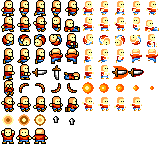
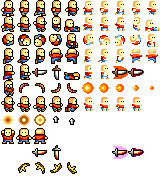
Obtaining life potion multiple times

diff --git a/src/player.js b/src/player.js
@@ -392,7 +392,8 @@ export class Player extends CollisionObject {
             this.boomerang.spawn(
                 this.pos.x+4*this.dir, this.pos.y+2,
                 THROW_SPEED*this.dir, 0, RETURN_TIME,
-                this, this.progress.hasItem(ItemType.FireBall));
+                this, this.progress.hasItem(ItemType.FireBall),
+                this.progress.hasItem(ItemType.GoldenBoomerang));
 
             // Required for collisions, when throwing the boomerang
             // next to a wall
@@ -519,15 +520,17 @@ export class Player extends CollisionObject {
             return;
         }
 
+        let attackFrame = this.progress.hasItem(ItemType.GoldenSword) ? 9 : 4;
+
         // Attacking, obviously
         if (this.attackTimer > 0) {
 
             this.spr.setFrame(0, 4);
             if (this.specialAttack)
-                this.swordSpr.animate(4, 7, 8,
+                this.swordSpr.animate(attackFrame, 7, 8,
                      SWORD_SPC_SPEED, ev.step);
             else
-                this.swordSpr.setFrame(2, 4);
+                this.swordSpr.setFrame(2, attackFrame);
 
             return;
         }
@@ -1218,11 +1221,11 @@ export class Player extends CollisionObject {
 
     getAttackDamage() {
 
-        let dmg = 2;
+        let dmg = this.progress.hasItem(ItemType.GoldenSword) ? 3 : 2;
         if (this.downAttack)
             ++ dmg;
         else if (this.specialAttack)
-            dmg += 2;
+            dmg *= 2;
 
         return dmg;
     }
@@ -1266,8 +1269,7 @@ export class Player extends CollisionObject {
 
     getBoomerangPower() {
 
-        // ...
-        return 1;
+        return this.progress.hasItem(ItemType.GoldenBoomerang) ? 2 : 1;
     }
 
 
@@ -1370,4 +1372,5 @@ export class Player extends CollisionObject {
 
         return false;
     }
+
 }

diff --git a/src/boomerang.js b/src/boomerang.js
@@ -56,7 +56,7 @@ class Flame {
         let frame = 5 + clamp(Math.round((1.0-this.timer) * 5), 0, 4);
         
         c.drawBitmapRegion(c.bitmaps["figure"],
-            frame*16, 80, 16, 16,
+            frame*16,80, 16, 16,
             Math.round(this.pos.x-8),
             Math.round(this.pos.y-8), Flip.None);
 
@@ -98,10 +98,12 @@ export class Boomerang extends CollisionObject {
         this.hasFlames = false;
 
         this.ignoreFence = true;
+        
+        this.isBanana = false;
     }
 
 
-    spawn(x, y, sx, sy, returnTime, returnObject, hasFlames) {
+    spawn(x, y, sx, sy, returnTime, returnObject, hasFlames, isBanana) {
 
         this.pos = new Vector2(x, y);
 
@@ -124,6 +126,7 @@ export class Boomerang extends CollisionObject {
         ++ this.hitId;
 
         this.hasFlames = hasFlames;
+        this.isBanana = isBanana;
     }
 
 
@@ -198,7 +201,7 @@ export class Boomerang extends CollisionObject {
         }
 
         // Animate
-        this.spr.animate(5, 1, 4, ANIM_SPEED, ev.step);
+        this.spr.animate(this.isBanana ? 10 : 5, 1, 4, ANIM_SPEED, ev.step);
 
         this.disableCollisions = this.returning && this.directionChanged;
     }

diff --git a/src/game.js b/src/game.js
@@ -288,14 +288,14 @@ export class Game extends Scene {
             if (i % 2 == 0) {
 
                 c.drawBitmapRegion(bmp, 40, 0, 8, 8,
-                    1 + x + SIDE_OFFSET, 1);
+                    x + SIDE_OFFSET, 1);
             }
 
             // Red
             if (this.progress.health > i) {
 
                 c.drawBitmapRegion(bmp, 32 + (i % 2)*4, 0, 4, 8,
-                    1 + x + SIDE_OFFSET + (i % 2) * 4, 1);
+                    x + SIDE_OFFSET + (i % 2) * 4, 1);
             }
         }
 
@@ -315,7 +315,7 @@ export class Game extends Scene {
             
             str = this.genItemString(this.progress.orbs, 8);
             c.drawText(bmp, str, 
-                c.width - str.length*8 -SIDE_OFFSET, c.height-9, 
+                c.width - str.length*8 -SIDE_OFFSET -1, c.height-9, 
                 1, 0, false);
         }      
     }

diff --git a/src/shop.js b/src/shop.js
@@ -10,6 +10,7 @@ import { State } from "./core/input.js";
 import { Menu, MenuButton } from "./menu.js";
 import { MessageBox } from "./messagebox.js";
 import { drawBoxWithOutlines } from "./misc.js";
+import { ItemType } from "./progress.js";
 
 
 /*
@@ -307,6 +308,13 @@ export class Shop {
         this.menu[this.id].activate(this.menu[this.id].buttons.length-1);
 
         this.itemWaitTime = 0;
+
+        if (!this.progress.hasItem(ItemType.LifePotion) &&
+            id == 1) {
+
+            this.menu[this.id].toggleButton(4, true);
+            this.progress.setItemBoughtStatus(9, false);
+        }
     }
 
 

diff --git a/src/chest.js b/src/chest.js
@@ -33,10 +33,12 @@ export function applyItemEvent(type, id, pl) {
             break;
 
         case ChestType.Key:
+
             pl.progress.addKeys(1);
             break;
 
         case ChestType.Orb:
+
             pl.progress.addOrbs(1);
             break;
 
